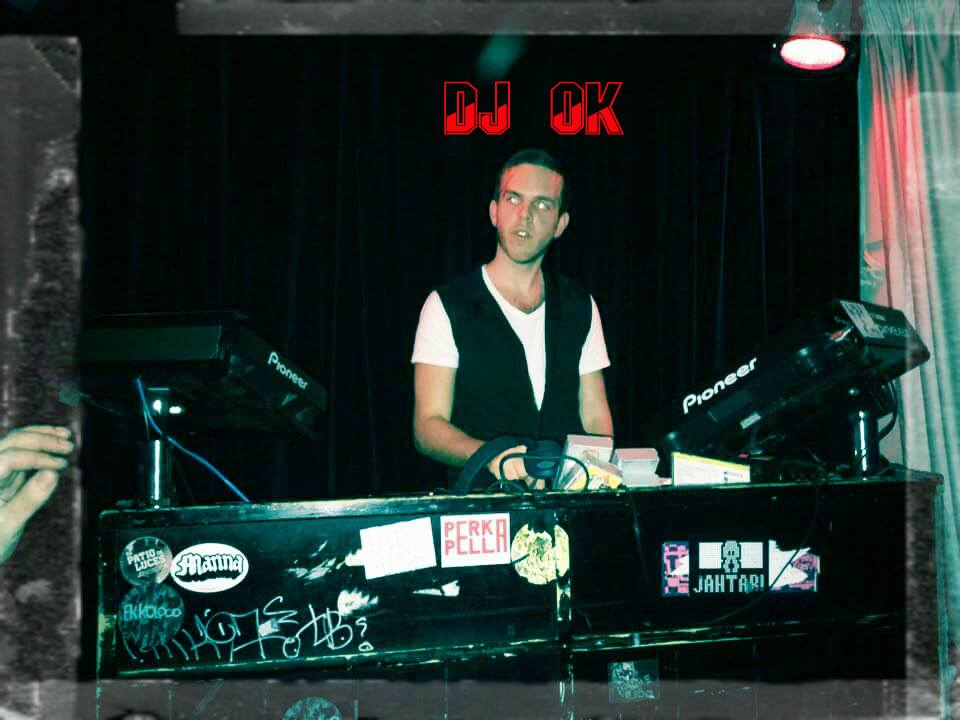
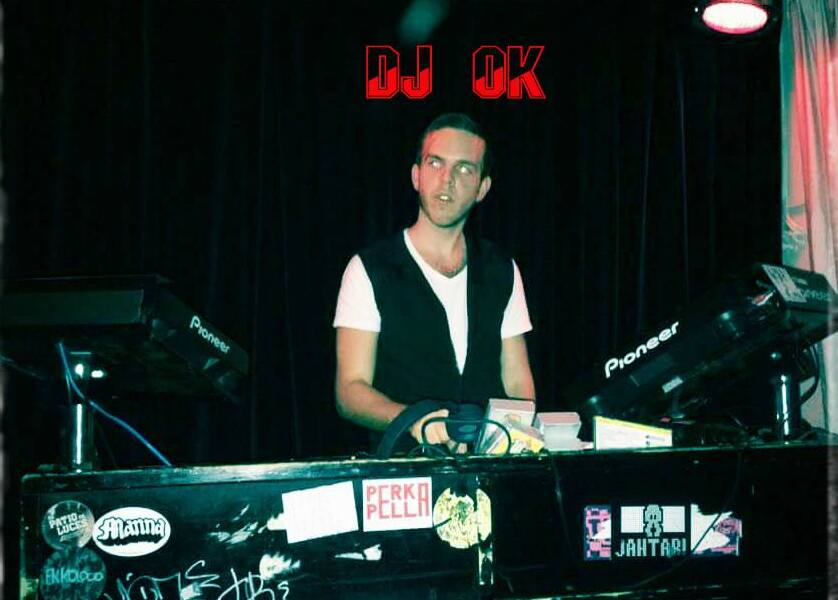
about-me-frontpage-picture-edit

diff --git a/index.html b/index.html
@@ -39,7 +39,7 @@
                     <a href="index.html" class="nav-link">Home</a>
                 </li>
                 <li class="nav-item">
-                    <a href="aboutPage.html" class="nav-link">About me</a>
+                    <a href="aboutPage.html" class="nav-link">About</a>
                 </li>
                 <li class="nav-item">
                     <a href="contactPage.html" class="nav-link">Contact</a>
@@ -69,7 +69,7 @@
                 <a href="index.html" class="nav-link">Home</a>
             </li>
             <li class="nav-item">
-                <a href="aboutPage.html" class="nav-link">About me</a>
+                <a href="aboutPage.html" class="nav-link">About</a>
             </li>
             <li class="nav-item">
                 <a href="contactPage.html" class="nav-link">Contact</a>
@@ -131,7 +131,7 @@
         </div>
 
         <div>
-            <h3 class="h3-for-front-page">100+</h3>
+            <h3 class="h3-for-front-page">1000+</h3>
             <p class="key-figures-of-my-work">Songs played at disco places</p>
         </div>
     </div>
@@ -173,7 +173,7 @@
                 </div>
                 <p class="footer-links">
                 <a href="index.html">Home</a>
-                ·<a href="aboutPage.html">About me</a>
+                ·<a href="aboutPage.html">About</a>
                 ·<a href="contactPage.html">contact</a>
                 ·<a href="posts.html">posts</a>
                 

diff --git a/aboutPage.html b/aboutPage.html
@@ -38,7 +38,7 @@
                     <a href="index.html" class="nav-link">Home</a>
                 </li>
                 <li class="nav-item">
-                    <a href="aboutPage.html" class="nav-link">About me</a>
+                    <a href="aboutPage.html" class="nav-link">About</a>
                 </li>
                 <li class="nav-item">
                     <a href="contactPage.html" class="nav-link">Contact</a>
@@ -68,7 +68,7 @@
                 <a href="index.html" class="nav-link">Home</a>
             </li>
             <li class="nav-item">
-                <a href="aboutPage.html" class="nav-link">About me</a>
+                <a href="aboutPage.html" class="nav-link">About</a>
             </li>
             <li class="nav-item">
                 <a href="contactPage.html" class="nav-link">Contact</a>

diff --git a/css/mystyle.css b/css/mystyle.css
@@ -366,7 +366,7 @@ a {
 }
 
 .about-me-frontpage-img {
-  max-width: 100%;
+  width: 40%;
 }
 
 .aboutMe-frontpage-div {
@@ -832,7 +832,8 @@ ul {
   justify-content: space-evenly;
   flex-direction: row;
   align-items: center;
-  width: 40%;
+  width: 60%;
+ 
   margin-right: 20px;
   padding: 0;
 }
